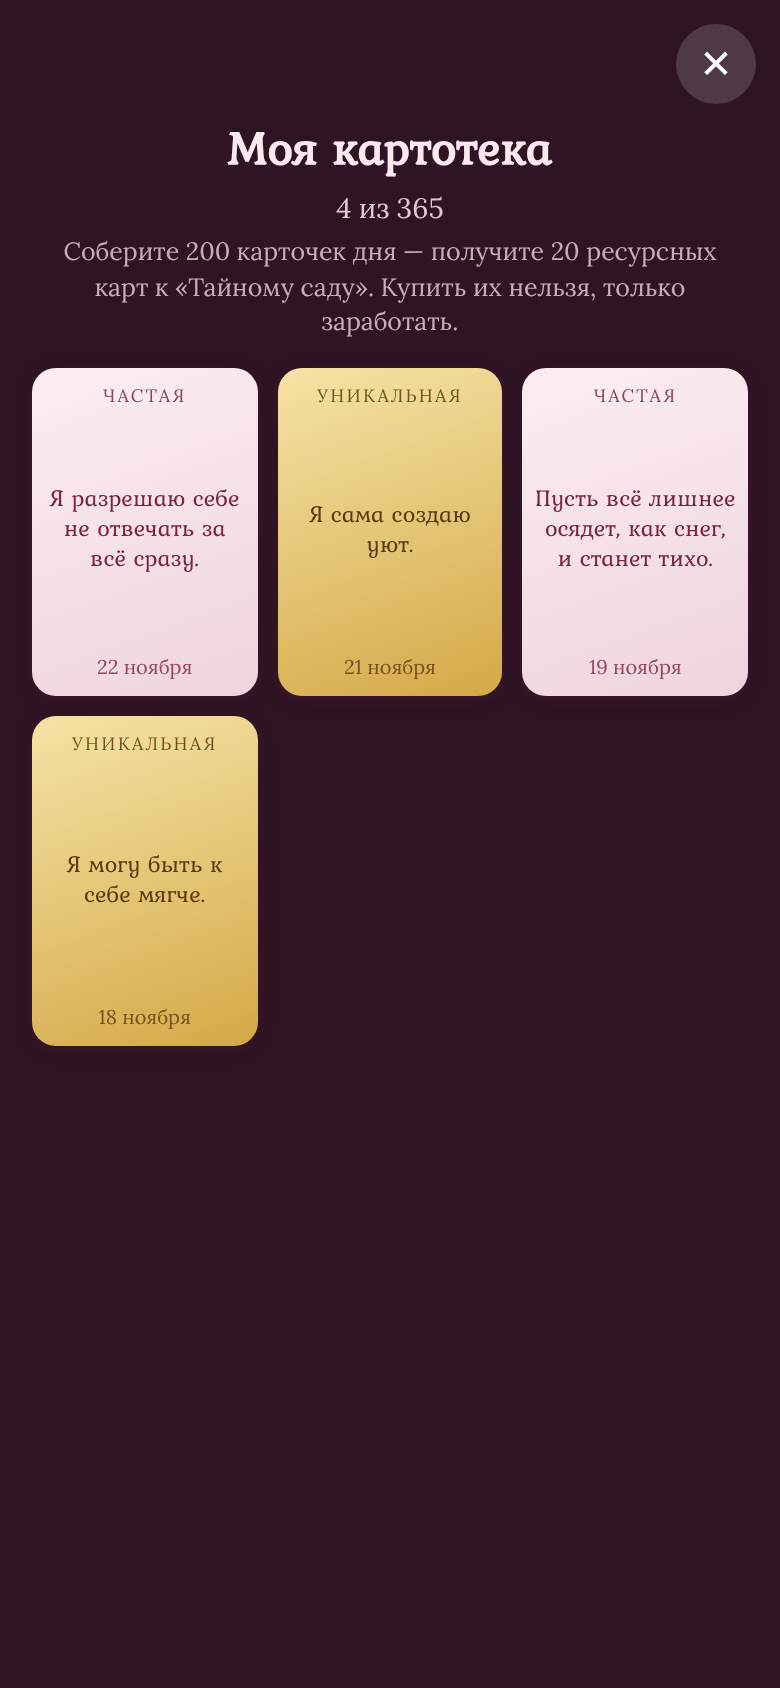
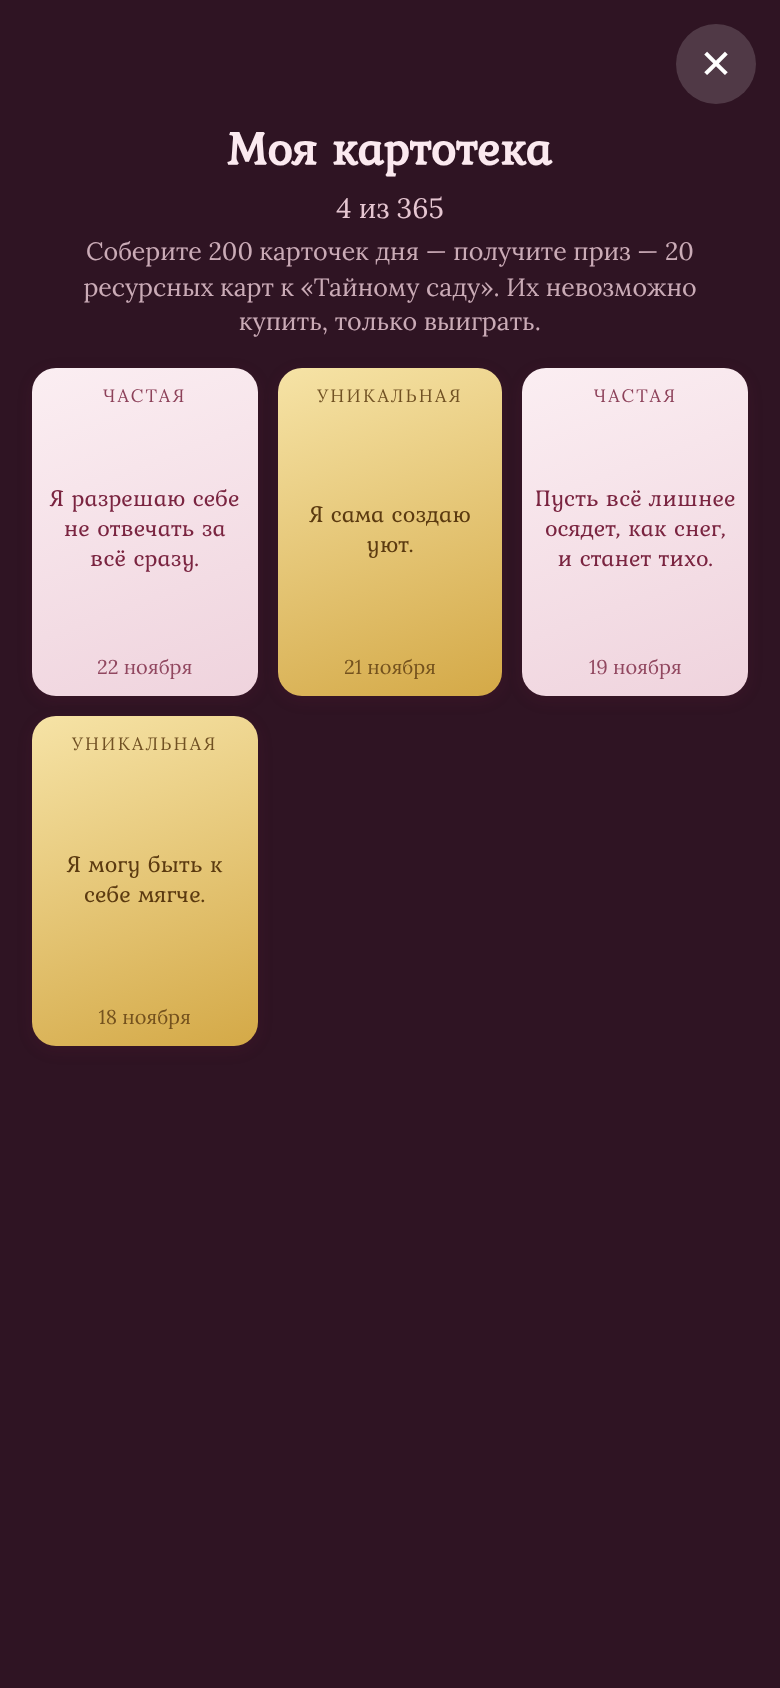
Текст Лилы для картотеки 22.11
Claude-Session: https://claude.ai/code/session_01TfGGfiKnfvpFcBXfnLNkoY

Changed region(s): [[0.0923, 0.1232, 0.9231, 0.2156]]

diff --git a/CLAUDE.md b/CLAUDE.md
@@ -97,7 +97,7 @@ print(u)"`
 - В бот — только утверждённое слово в слово; неутверждённое — отдельно (18.11).
 - В боте цель — 34 редких и 19 уникальных (186); «Джек сказал…» — фраза из сериала (18.11).
 - В первые 7 карточек обязательно редкая и уникальная; 336 доработать, 337 заменить, 233 не нравится (18.11).
-- В картотеке «N из 365», под ним: «Соберите 200 карточек дня — получите 20 ресурсных карт к „Тайному саду“. Купить их нельзя, только заработать.» (22.11, в боте).
+- В картотеке «N из 365», под ним (текст Лилы): «Соберите 200 карточек дня — получите приз — 20 ресурсных карт к „Тайному саду“. Их невозможно купить, только выиграть.» (22.11, в боте).
 - Открытая карточка — внизу «Дня», там же «Все мои карточки» (18.11).
 
 ### Поддержка и оплата
